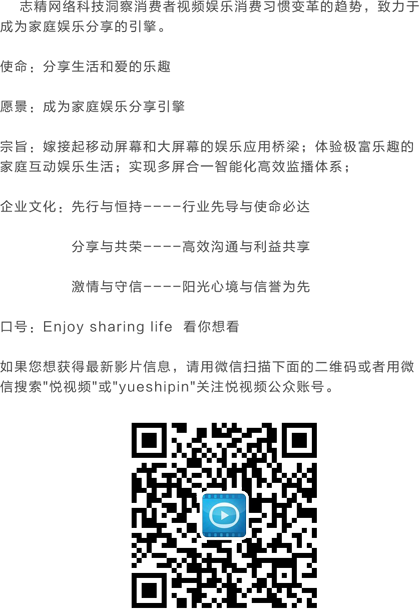
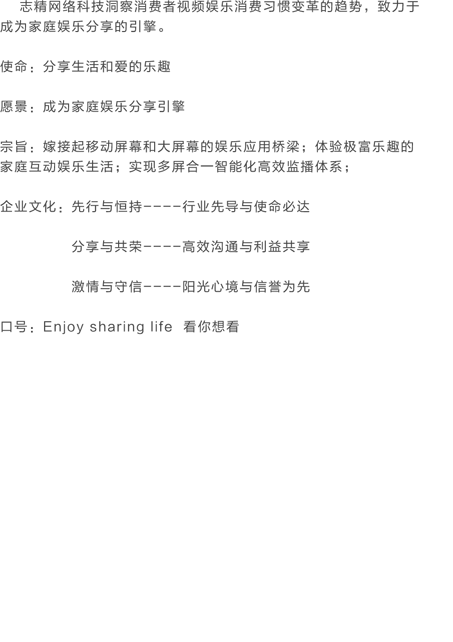
UI

diff --git a/theatre_ipad/yueshipin_ipad/src/AboutUsViewController.m b/theatre_ipad/yueshipin_ipad/src/AboutUsViewController.m
@@ -42,7 +42,7 @@
     self.bgImage.image = [UIImage imageNamed:@"left_background@2x.jpg"];
     [self.view addSubview:self.bgImage];
     
-    titleImage = [[UIImageView alloc]initWithFrame:CGRectMake(LEFT_WIDTH, 35, 104, 27)];
+    titleImage = [[UIImageView alloc]initWithFrame:CGRectMake(LEFT_WIDTH + 10, 35, 104, 27)];
     titleImage.image = [UIImage imageNamed:@"about_title"];
     [self.view addSubview:titleImage];
     
@@ -53,7 +53,7 @@
     [closeBtn addTarget:self action:@selector(closeBtnClicked) forControlEvents:UIControlEventTouchUpInside];
     [self.view addSubview:closeBtn];
     
-    contentImage = [[UIImageView alloc]initWithFrame:CGRectMake(LEFT_WIDTH, 90, 420, 609)];
+    contentImage = [[UIImageView alloc]initWithFrame:CGRectMake(LEFT_WIDTH + 10, 80, 453, 642)];//420,609
     contentImage.image = [UIImage imageNamed:@"about_content"];
     [self.view addSubview:contentImage];
 
